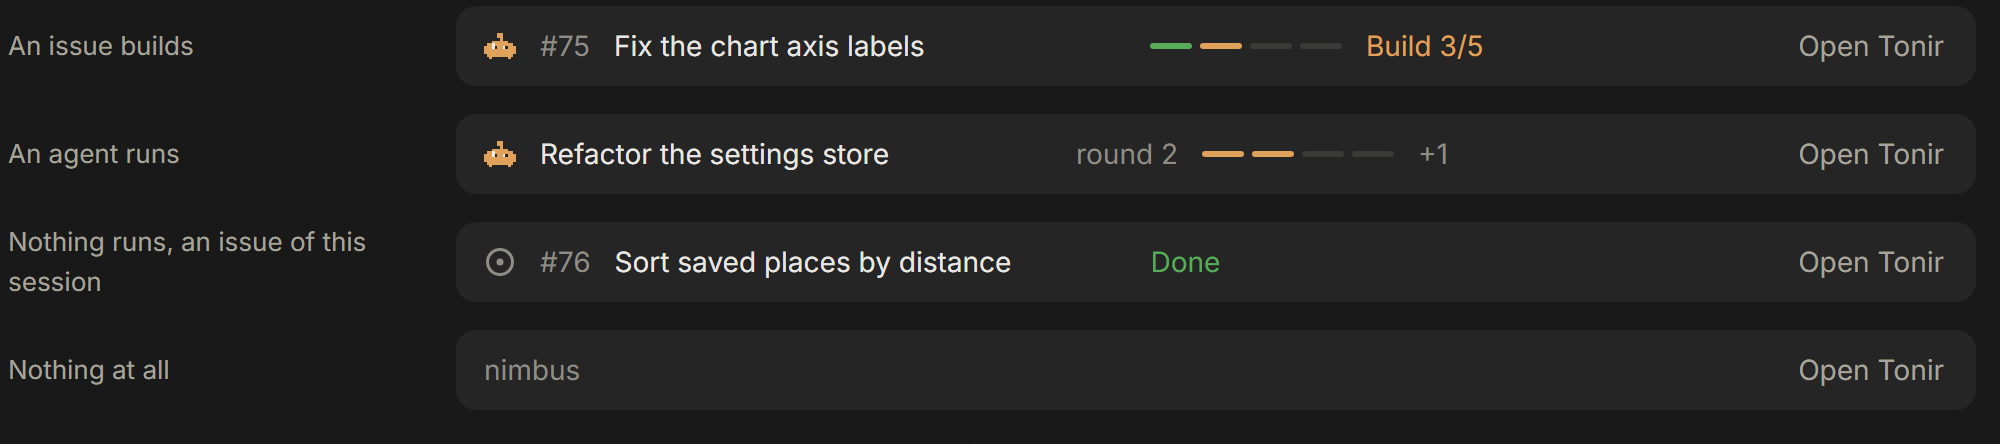
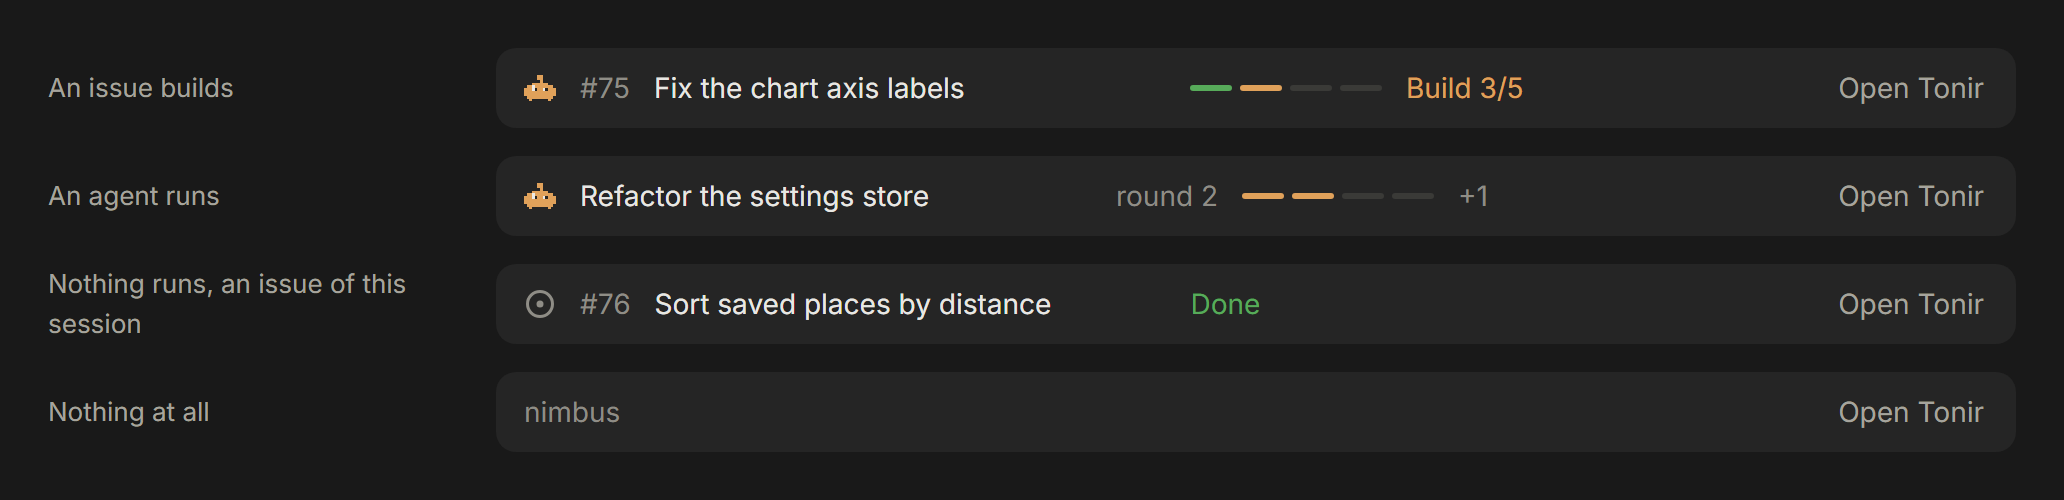
README: screenshots trimmed to an even margin
Each image is rendered on its own and trimmed to its content with a 24 px
margin on every side; the bar shows its four states only.

diff --git a/README.md b/README.md
@@ -12,7 +12,7 @@
 <p align="center">
   <picture>
     <source srcset="media/pane-dark.png" media="(prefers-color-scheme: dark)">
-    <img src="media/pane-light.png" width="442" alt="The Tonir pane: the repo nimbus and the session's cost line, a search field, an issue building with its pipeline and crew, two other agents with their bars, this session's issue marked Done, and the open issues of milestone v2.0 with Build, Branch ready and Failed on the right.">
+    <img src="media/pane-light.png" width="488" alt="The Tonir pane: the repo nimbus and the session's cost line, a search field, an issue building with its pipeline and crew, two other agents with their bars, this session's issue marked Done, and the open issues of milestone v2.0 with Build, Branch ready and Failed on the right.">
   </picture>
 </p>
 
@@ -45,7 +45,7 @@
 <p align="center">
   <picture>
     <source srcset="media/bar-dark.png" media="(prefers-color-scheme: dark)">
-    <img src="media/bar-light.png" width="800" alt="The bar above the prompt in its four states: an issue building with its pipeline and stage, an agent running with its bar, this session's issue marked Done, and the repo name when nothing runs; each with one Open Tonir button.">
+    <img src="media/bar-light.png" width="100%" alt="The bar above the prompt in its four states: an issue building with its pipeline and stage, an agent running with its bar, this session's issue marked Done, and the repo name when nothing runs; each with one Open Tonir button.">
   </picture>
 </p>
 
